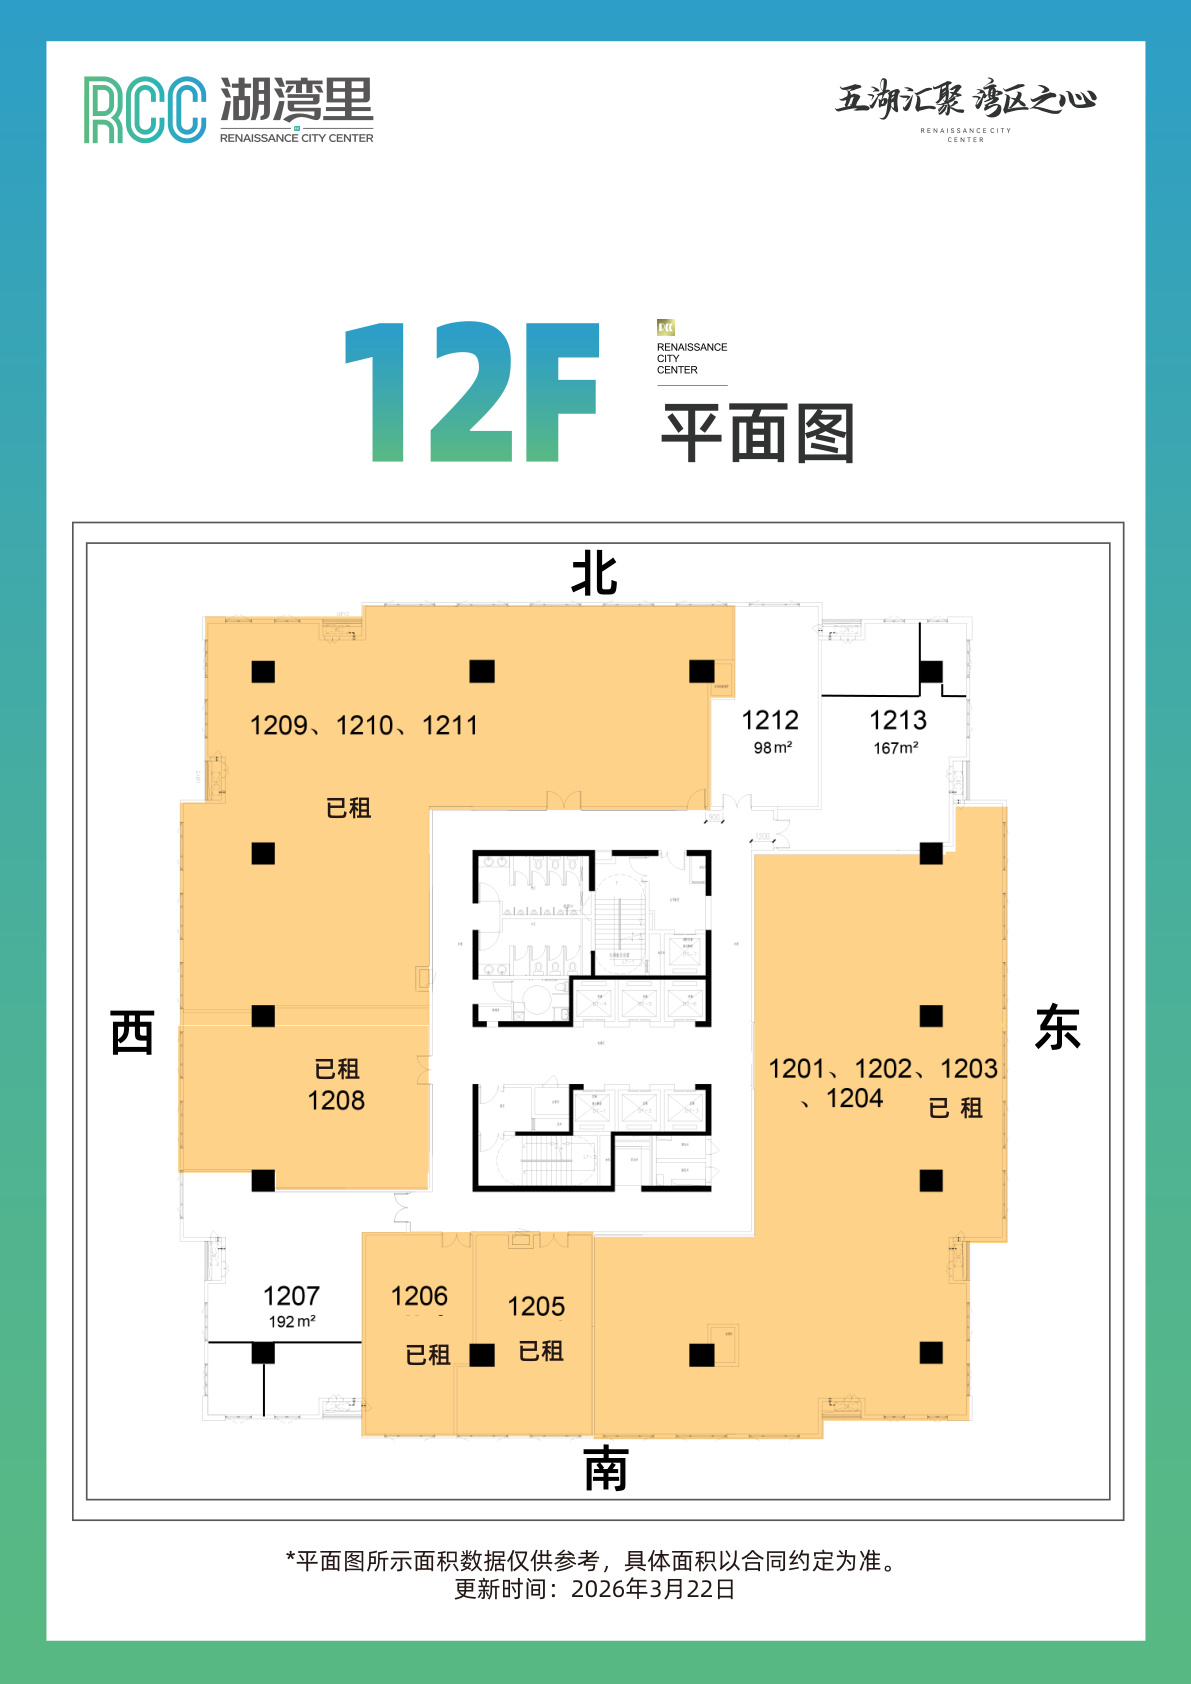
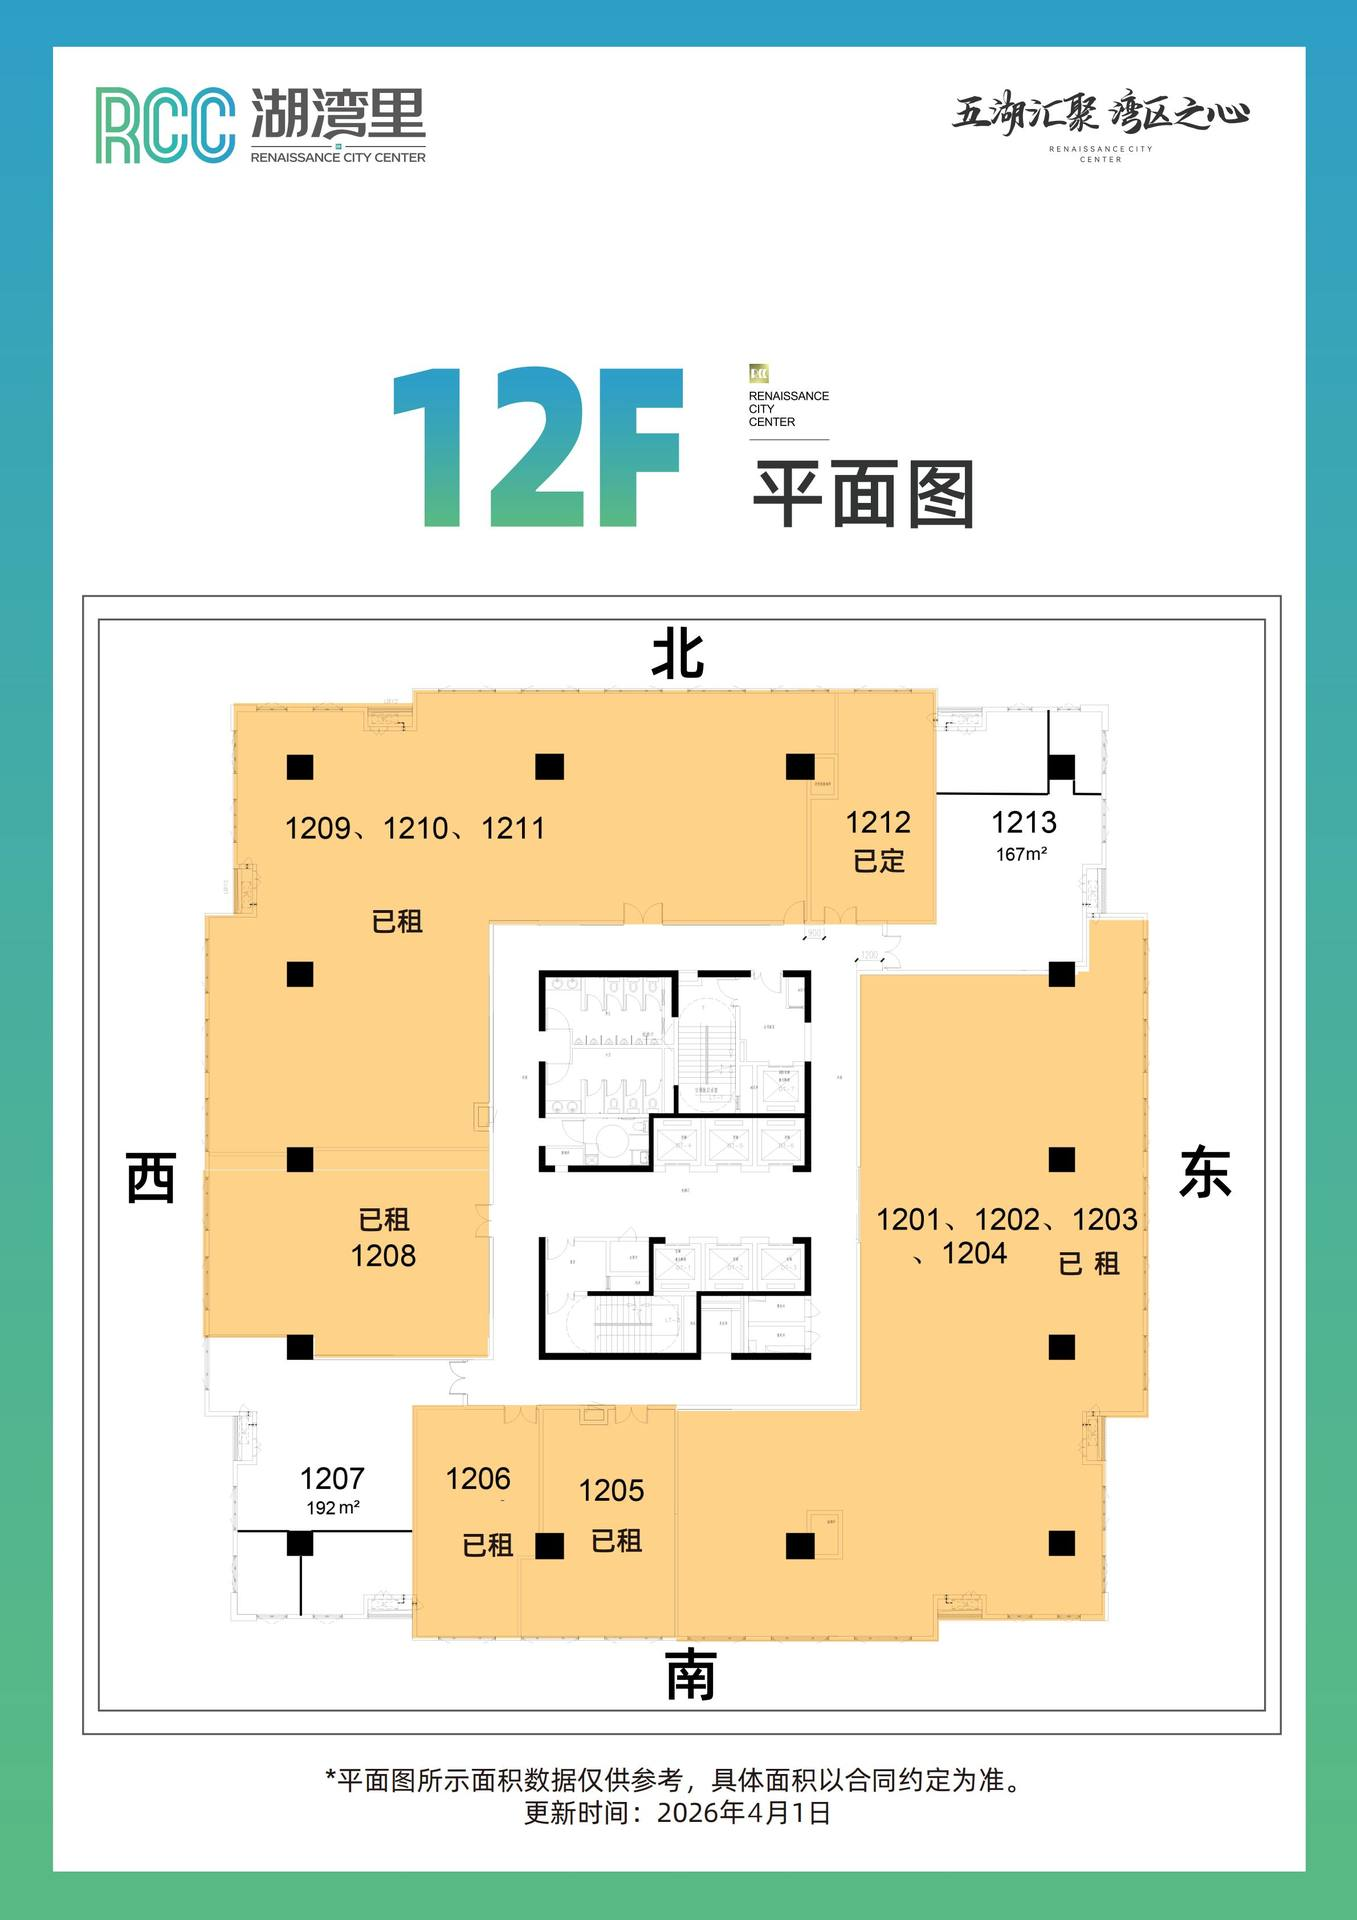
新增1F/2F楼层图，更新5F/12F/19F，脚本加入1/2楼，压缩楼层图

diff --git a/index.html b/index.html
@@ -471,9 +471,9 @@
 </div>
 
 <script>
-const floorsOrder = ["4", "5", "6", "7", "8", "9", "10", "12", "13A", "15", "16", "17", "18", "19", "20", "22"];
+const floorsOrder = ["1", "2", "4", "5", "6", "7", "8", "9", "10", "12", "13A", "15", "16", "17", "18", "19", "20", "22"];
 const floorUnits = {"5": [{"unit": "504", "area": 123.0, "price": 58.0, "special": 7000, "note": "稀缺南向小面积"}, {"unit": "510", "area": 201.0, "price": 55.0, "special": 10800, "note": "双边采光 2+1"}], "6": [{"unit": "602", "area": 177.0, "price": 55.0, "special": 9500, "note": "双边采光 2+1"}, {"unit": "615", "area": 178.0, "price": 55.0, "special": 9500, "note": "双边采光 2+1"}], "8": [{"unit": "806", "area": 215.0, "price": 58.0, "special": 12000, "note": "方正好用大通间"}, {"unit": "807-1", "area": 176.0, "price": 55.0, "special": 9200, "note": "双边采光"}], "10": [{"unit": "1003", "area": 222.0, "price": 55.0, "special": 11800, "note": "双边采光 2+1"}, {"unit": "1006", "area": 246.0, "price": 58.0, "special": 13500, "note": "方正户型 1+1"}, {"unit": "1010", "area": 228.0, "price": 55.0, "special": 12200, "note": "双边采光 1+1"}], "12": [{"unit": "1207", "area": 192.0, "price": 56.0, "special": 10200, "note": "双边采光 2+1"}, {"unit": "1212", "area": 98.0, "price": 60.0, "special": 5800, "note": "稀缺北向小面积"}, {"unit": "1213", "area": 167.0, "price": 56.0, "special": 9000, "note": "双边采光 2+1"}], "13A": [{"unit": "13A02", "area": 177.0, "price": 56.0, "special": 9500, "note": "双边采光 2+1"}, {"unit": "13A15", "area": 178.0, "price": 56.0, "special": 9500, "note": "双边采光 2+1"}], "16": [{"unit": "1605+1606", "area": 386.0, "price": 56.0, "special": 20800, "note": "带装修 4+1"}, {"unit": "1609-2", "area": 168.0, "price": 56.0, "special": 9000, "note": "双边采光"}], "17": [{"unit": "1702", "area": 263.0, "price": 57.0, "special": 13800, "note": "双边采光"}], "18": [{"unit": "1802", "area": 177.0, "price": 57.0, "special": 9600, "note": "双边采光 2+1"}, {"unit": "1809", "area": 201.0, "price": 58.0, "special": 11000, "note": "方正好用大通间"}, {"unit": "1810", "area": 201.0, "price": 57.0, "special": 11000, "note": "双边采光 2+1"}, {"unit": "1815", "area": 178.0, "price": 57.0, "special": 9600, "note": "双边采光 2+1"}], "19": [{"unit": "1902", "area": 153.0, "price": 62.0, "special": 8800, "note": "双边采光赠阳台"}, {"unit": "1904", "area": 124.0, "price": 62.0, "special": 7200, "note": "稀缺南向小面积"}, {"unit": "1907", "area": 179.0, "price": 62.0, "special": 10500, "note": "双边采光赠阳台"}, {"unit": "1916", "area": 218.0, "price": 60.0, "special": 12500, "note": "方正好用大通间"}], "20": [{"unit": "2002", "area": 157.0, "price": 60.0, "special": 9000, "note": "双边采光"}, {"unit": "2007", "area": 185.0, "price": 60.0, "special": 10500, "note": "双边采光"}, {"unit": "2008", "area": 186.0, "price": 62.0, "special": 10800, "note": "方正好用大通间"}, {"unit": "2009", "area": 201.0, "price": 62.0, "special": 11800, "note": "方正好用大通间"}, {"unit": "2012", "area": 121.0, "price": 63.0, "special": 7300, "note": "高层北向小面积"}, {"unit": "2013", "area": 120.0, "price": 63.0, "special": 7300, "note": "高层北向小面积"}, {"unit": "2015", "area": 160.0, "price": 60.0, "special": 9200, "note": "双边采光"}]};
-const floorImages = {"4": "https://raw.githubusercontent.com/wangmeiyi411830/RCC/main/floor_images/floor_4.jpg", "5": "https://raw.githubusercontent.com/wangmeiyi411830/RCC/main/floor_images/floor_5.jpg", "6": "https://raw.githubusercontent.com/wangmeiyi411830/RCC/main/floor_images/floor_6.jpg", "7": "https://raw.githubusercontent.com/wangmeiyi411830/RCC/main/floor_images/floor_7.jpg", "8": "https://raw.githubusercontent.com/wangmeiyi411830/RCC/main/floor_images/floor_8.jpg", "9": "https://raw.githubusercontent.com/wangmeiyi411830/RCC/main/floor_images/floor_9.jpg", "10": "https://raw.githubusercontent.com/wangmeiyi411830/RCC/main/floor_images/floor_10.jpg", "12": "https://raw.githubusercontent.com/wangmeiyi411830/RCC/main/floor_images/floor_12.jpg", "13A": "https://raw.githubusercontent.com/wangmeiyi411830/RCC/main/floor_images/floor_13A.jpg", "15": "https://raw.githubusercontent.com/wangmeiyi411830/RCC/main/floor_images/floor_15.jpg", "16": "https://raw.githubusercontent.com/wangmeiyi411830/RCC/main/floor_images/floor_16.jpg", "17": "https://raw.githubusercontent.com/wangmeiyi411830/RCC/main/floor_images/floor_17.jpg", "18": "https://raw.githubusercontent.com/wangmeiyi411830/RCC/main/floor_images/floor_18.jpg", "19": "https://raw.githubusercontent.com/wangmeiyi411830/RCC/main/floor_images/floor_19.jpg", "20": "https://raw.githubusercontent.com/wangmeiyi411830/RCC/main/floor_images/floor_20.jpg", "22": "https://raw.githubusercontent.com/wangmeiyi411830/RCC/main/floor_images/floor_22.jpg"};
+const floorImages = {"1": "https://raw.githubusercontent.com/wangmeiyi411830/RCC/main/floor_images/floor_1.jpg", "2": "https://raw.githubusercontent.com/wangmeiyi411830/RCC/main/floor_images/floor_2.jpg", "4": "https://raw.githubusercontent.com/wangmeiyi411830/RCC/main/floor_images/floor_4.jpg", "5": "https://raw.githubusercontent.com/wangmeiyi411830/RCC/main/floor_images/floor_5.jpg", "6": "https://raw.githubusercontent.com/wangmeiyi411830/RCC/main/floor_images/floor_6.jpg", "7": "https://raw.githubusercontent.com/wangmeiyi411830/RCC/main/floor_images/floor_7.jpg", "8": "https://raw.githubusercontent.com/wangmeiyi411830/RCC/main/floor_images/floor_8.jpg", "9": "https://raw.githubusercontent.com/wangmeiyi411830/RCC/main/floor_images/floor_9.jpg", "10": "https://raw.githubusercontent.com/wangmeiyi411830/RCC/main/floor_images/floor_10.jpg", "12": "https://raw.githubusercontent.com/wangmeiyi411830/RCC/main/floor_images/floor_12.jpg", "13A": "https://raw.githubusercontent.com/wangmeiyi411830/RCC/main/floor_images/floor_13A.jpg", "15": "https://raw.githubusercontent.com/wangmeiyi411830/RCC/main/floor_images/floor_15.jpg", "16": "https://raw.githubusercontent.com/wangmeiyi411830/RCC/main/floor_images/floor_16.jpg", "17": "https://raw.githubusercontent.com/wangmeiyi411830/RCC/main/floor_images/floor_17.jpg", "18": "https://raw.githubusercontent.com/wangmeiyi411830/RCC/main/floor_images/floor_18.jpg", "19": "https://raw.githubusercontent.com/wangmeiyi411830/RCC/main/floor_images/floor_19.jpg", "20": "https://raw.githubusercontent.com/wangmeiyi411830/RCC/main/floor_images/floor_20.jpg", "22": "https://raw.githubusercontent.com/wangmeiyi411830/RCC/main/floor_images/floor_22.jpg"};
 const unitPhotos = {"1003": ["https://raw.githubusercontent.com/wangmeiyi411830/RCC/main/unit_images/1003-1.png", "https://raw.githubusercontent.com/wangmeiyi411830/RCC/main/unit_images/1003-2.jpg", "https://raw.githubusercontent.com/wangmeiyi411830/RCC/main/unit_images/1003-3.jpg", "https://raw.githubusercontent.com/wangmeiyi411830/RCC/main/unit_images/1003-4.jpg"], "1006": ["https://raw.githubusercontent.com/wangmeiyi411830/RCC/main/unit_images/1006-1.png", "https://raw.githubusercontent.com/wangmeiyi411830/RCC/main/unit_images/1006-2.jpg", "https://raw.githubusercontent.com/wangmeiyi411830/RCC/main/unit_images/1006-3.jpg", "https://raw.githubusercontent.com/wangmeiyi411830/RCC/main/unit_images/1006-4.jpg", "https://raw.githubusercontent.com/wangmeiyi411830/RCC/main/unit_images/1006-5.jpg"], "1010": ["https://raw.githubusercontent.com/wangmeiyi411830/RCC/main/unit_images/1010-1.png", "https://raw.githubusercontent.com/wangmeiyi411830/RCC/main/unit_images/1010-2.jpg", "https://raw.githubusercontent.com/wangmeiyi411830/RCC/main/unit_images/1010-3.jpg"], "1207": ["https://raw.githubusercontent.com/wangmeiyi411830/RCC/main/unit_images/1207-1.png", "https://raw.githubusercontent.com/wangmeiyi411830/RCC/main/unit_images/1207-2.jpg", "https://raw.githubusercontent.com/wangmeiyi411830/RCC/main/unit_images/1207-3.jpg", "https://raw.githubusercontent.com/wangmeiyi411830/RCC/main/unit_images/1207-4.jpg"], "1212": ["https://raw.githubusercontent.com/wangmeiyi411830/RCC/main/unit_images/1212-1.png", "https://raw.githubusercontent.com/wangmeiyi411830/RCC/main/unit_images/1212-2.jpg", "https://raw.githubusercontent.com/wangmeiyi411830/RCC/main/unit_images/1212-3.jpg"], "1213": ["https://raw.githubusercontent.com/wangmeiyi411830/RCC/main/unit_images/1213-1.png", "https://raw.githubusercontent.com/wangmeiyi411830/RCC/main/unit_images/1213-2.jpg", "https://raw.githubusercontent.com/wangmeiyi411830/RCC/main/unit_images/1213-3.jpg", "https://raw.githubusercontent.com/wangmeiyi411830/RCC/main/unit_images/1213-4.jpg"], "13A02": ["https://raw.githubusercontent.com/wangmeiyi411830/RCC/main/unit_images/13A02-1.png", "https://raw.githubusercontent.com/wangmeiyi411830/RCC/main/unit_images/13A02-3.jpg", "https://raw.githubusercontent.com/wangmeiyi411830/RCC/main/unit_images/13A02-4.jpg", "https://raw.githubusercontent.com/wangmeiyi411830/RCC/main/unit_images/13A02-5.jpg"], "13A15": ["https://raw.githubusercontent.com/wangmeiyi411830/RCC/main/unit_images/13A15-1.png", "https://raw.githubusercontent.com/wangmeiyi411830/RCC/main/unit_images/13A15-2.jpg", "https://raw.githubusercontent.com/wangmeiyi411830/RCC/main/unit_images/13A15-3.jpg", "https://raw.githubusercontent.com/wangmeiyi411830/RCC/main/unit_images/13A15-4.jpg", "https://raw.githubusercontent.com/wangmeiyi411830/RCC/main/unit_images/13A15-5.jpg"], "1605+1606": ["https://raw.githubusercontent.com/wangmeiyi411830/RCC/main/unit_images/1605+1606-1.png", "https://raw.githubusercontent.com/wangmeiyi411830/RCC/main/unit_images/1605+1606-2.jpg", "https://raw.githubusercontent.com/wangmeiyi411830/RCC/main/unit_images/1605+1606-3.jpg", "https://raw.githubusercontent.com/wangmeiyi411830/RCC/main/unit_images/1605+1606-4.jpg", "https://raw.githubusercontent.com/wangmeiyi411830/RCC/main/unit_images/1605+1606-5.jpg"], "1609-2": ["https://raw.githubusercontent.com/wangmeiyi411830/RCC/main/unit_images/1609-2-1.png", "https://raw.githubusercontent.com/wangmeiyi411830/RCC/main/unit_images/1609-2-2.jpg", "https://raw.githubusercontent.com/wangmeiyi411830/RCC/main/unit_images/1609-2-3.jpg"], "1702": ["https://raw.githubusercontent.com/wangmeiyi411830/RCC/main/unit_images/1702-1.png", "https://raw.githubusercontent.com/wangmeiyi411830/RCC/main/unit_images/1702-2.jpg", "https://raw.githubusercontent.com/wangmeiyi411830/RCC/main/unit_images/1702-3.jpg"], "1802": ["https://raw.githubusercontent.com/wangmeiyi411830/RCC/main/unit_images/1802-1.png", "https://raw.githubusercontent.com/wangmeiyi411830/RCC/main/unit_images/1802-2.jpg", "https://raw.githubusercontent.com/wangmeiyi411830/RCC/main/unit_images/1802-3.jpg", "https://raw.githubusercontent.com/wangmeiyi411830/RCC/main/unit_images/1802-4.jpg"], "1809": ["https://raw.githubusercontent.com/wangmeiyi411830/RCC/main/unit_images/1809-1.png", "https://raw.githubusercontent.com/wangmeiyi411830/RCC/main/unit_images/1809-2.jpg", "https://raw.githubusercontent.com/wangmeiyi411830/RCC/main/unit_images/1809-3.jpg"], "1810": ["https://raw.githubusercontent.com/wangmeiyi411830/RCC/main/unit_images/1810-1.png", "https://raw.githubusercontent.com/wangmeiyi411830/RCC/main/unit_images/1810-2.jpg", "https://raw.githubusercontent.com/wangmeiyi411830/RCC/main/unit_images/1810-3.jpg", "https://raw.githubusercontent.com/wangmeiyi411830/RCC/main/unit_images/1810-4.jpg"], "1815": ["https://raw.githubusercontent.com/wangmeiyi411830/RCC/main/unit_images/1815-1.png", "https://raw.githubusercontent.com/wangmeiyi411830/RCC/main/unit_images/1815-2.jpg", "https://raw.githubusercontent.com/wangmeiyi411830/RCC/main/unit_images/1815-3.jpg", "https://raw.githubusercontent.com/wangmeiyi411830/RCC/main/unit_images/1815-4.jpg", "https://raw.githubusercontent.com/wangmeiyi411830/RCC/main/unit_images/1815-5.jpg"], "1902": ["https://raw.githubusercontent.com/wangmeiyi411830/RCC/main/unit_images/1902-1.png", "https://raw.githubusercontent.com/wangmeiyi411830/RCC/main/unit_images/1902-2.jpg", "https://raw.githubusercontent.com/wangmeiyi411830/RCC/main/unit_images/1902-3.jpg", "https://raw.githubusercontent.com/wangmeiyi411830/RCC/main/unit_images/1902-4.jpg"], "1904": ["https://raw.githubusercontent.com/wangmeiyi411830/RCC/main/unit_images/1904-1.png", "https://raw.githubusercontent.com/wangmeiyi411830/RCC/main/unit_images/1904-2.jpg", "https://raw.githubusercontent.com/wangmeiyi411830/RCC/main/unit_images/1904-3.jpg"], "1907": ["https://raw.githubusercontent.com/wangmeiyi411830/RCC/main/unit_images/1907-1.png", "https://raw.githubusercontent.com/wangmeiyi411830/RCC/main/unit_images/1907-2.jpg", "https://raw.githubusercontent.com/wangmeiyi411830/RCC/main/unit_images/1907-3.jpg", "https://raw.githubusercontent.com/wangmeiyi411830/RCC/main/unit_images/1907-4.jpg", "https://raw.githubusercontent.com/wangmeiyi411830/RCC/main/unit_images/1907-5.jpg"], "1916": ["https://raw.githubusercontent.com/wangmeiyi411830/RCC/main/unit_images/1916-1.png", "https://raw.githubusercontent.com/wangmeiyi411830/RCC/main/unit_images/1916-2.jpg", "https://raw.githubusercontent.com/wangmeiyi411830/RCC/main/unit_images/1916-3.jpg"], "2002": ["https://raw.githubusercontent.com/wangmeiyi411830/RCC/main/unit_images/2002-1.png", "https://raw.githubusercontent.com/wangmeiyi411830/RCC/main/unit_images/2002-2.jpg", "https://raw.githubusercontent.com/wangmeiyi411830/RCC/main/unit_images/2002-3.jpg"], "2007": ["https://raw.githubusercontent.com/wangmeiyi411830/RCC/main/unit_images/2007-1.png", "https://raw.githubusercontent.com/wangmeiyi411830/RCC/main/unit_images/2007-2.jpg", "https://raw.githubusercontent.com/wangmeiyi411830/RCC/main/unit_images/2007-3.jpg", "https://raw.githubusercontent.com/wangmeiyi411830/RCC/main/unit_images/2007-4.jpg"], "2008": ["https://raw.githubusercontent.com/wangmeiyi411830/RCC/main/unit_images/2008-1.png", "https://raw.githubusercontent.com/wangmeiyi411830/RCC/main/unit_images/2008-2.jpg", "https://raw.githubusercontent.com/wangmeiyi411830/RCC/main/unit_images/2008-3.jpg"], "2009": ["https://raw.githubusercontent.com/wangmeiyi411830/RCC/main/unit_images/2009-1.png", "https://raw.githubusercontent.com/wangmeiyi411830/RCC/main/unit_images/2009-2.jpg", "https://raw.githubusercontent.com/wangmeiyi411830/RCC/main/unit_images/2009-3.jpg"], "2012": ["https://raw.githubusercontent.com/wangmeiyi411830/RCC/main/unit_images/2012-1.png", "https://raw.githubusercontent.com/wangmeiyi411830/RCC/main/unit_images/2012-2.jpg", "https://raw.githubusercontent.com/wangmeiyi411830/RCC/main/unit_images/2012-3.jpg", "https://raw.githubusercontent.com/wangmeiyi411830/RCC/main/unit_images/2012-4.jpg"], "2013": ["https://raw.githubusercontent.com/wangmeiyi411830/RCC/main/unit_images/2013-1.png", "https://raw.githubusercontent.com/wangmeiyi411830/RCC/main/unit_images/2013-2.jpg", "https://raw.githubusercontent.com/wangmeiyi411830/RCC/main/unit_images/2013-3.jpg"], "2015": ["https://raw.githubusercontent.com/wangmeiyi411830/RCC/main/unit_images/2015-1.png", "https://raw.githubusercontent.com/wangmeiyi411830/RCC/main/unit_images/2015-2.jpg"], "504": ["https://raw.githubusercontent.com/wangmeiyi411830/RCC/main/unit_images/504-1.png", "https://raw.githubusercontent.com/wangmeiyi411830/RCC/main/unit_images/504-2.jpg", "https://raw.githubusercontent.com/wangmeiyi411830/RCC/main/unit_images/504-3.jpg"], "510": ["https://raw.githubusercontent.com/wangmeiyi411830/RCC/main/unit_images/510-1.png", "https://raw.githubusercontent.com/wangmeiyi411830/RCC/main/unit_images/510-2.jpg", "https://raw.githubusercontent.com/wangmeiyi411830/RCC/main/unit_images/510-3.jpg"], "602": ["https://raw.githubusercontent.com/wangmeiyi411830/RCC/main/unit_images/602-1.png", "https://raw.githubusercontent.com/wangmeiyi411830/RCC/main/unit_images/602-2.jpg", "https://raw.githubusercontent.com/wangmeiyi411830/RCC/main/unit_images/602-3.jpg"], "615": ["https://raw.githubusercontent.com/wangmeiyi411830/RCC/main/unit_images/615-1.png", "https://raw.githubusercontent.com/wangmeiyi411830/RCC/main/unit_images/615-2.jpg", "https://raw.githubusercontent.com/wangmeiyi411830/RCC/main/unit_images/615-3.jpg"], "806": ["https://raw.githubusercontent.com/wangmeiyi411830/RCC/main/unit_images/806-1.png", "https://raw.githubusercontent.com/wangmeiyi411830/RCC/main/unit_images/806-2.jpg"], "807-1": ["https://raw.githubusercontent.com/wangmeiyi411830/RCC/main/unit_images/807-1-1.png", "https://raw.githubusercontent.com/wangmeiyi411830/RCC/main/unit_images/807-1-2.jpg", "https://raw.githubusercontent.com/wangmeiyi411830/RCC/main/unit_images/807-1-3.jpg"]};
 
 let carouselIndex = 0;

diff --git a/build_vis_github.py b/build_vis_github.py
@@ -48,7 +48,7 @@ for _, row in df.iterrows():
 print('Unit data loaded OK')
 
 # ── 2. Floor images → GitHub URL ──────────────────────────────────────────────
-floors_order = [4,5,6,7,8,9,10,12,'13A',15,16,17,18,19,20,22]
+floors_order = [1,2,4,5,6,7,8,9,10,12,'13A',15,16,17,18,19,20,22]
 floor_images = {}
 img_dir = os.path.join(BASE_DIR, 'floor_images')
 for floor in floors_order:
